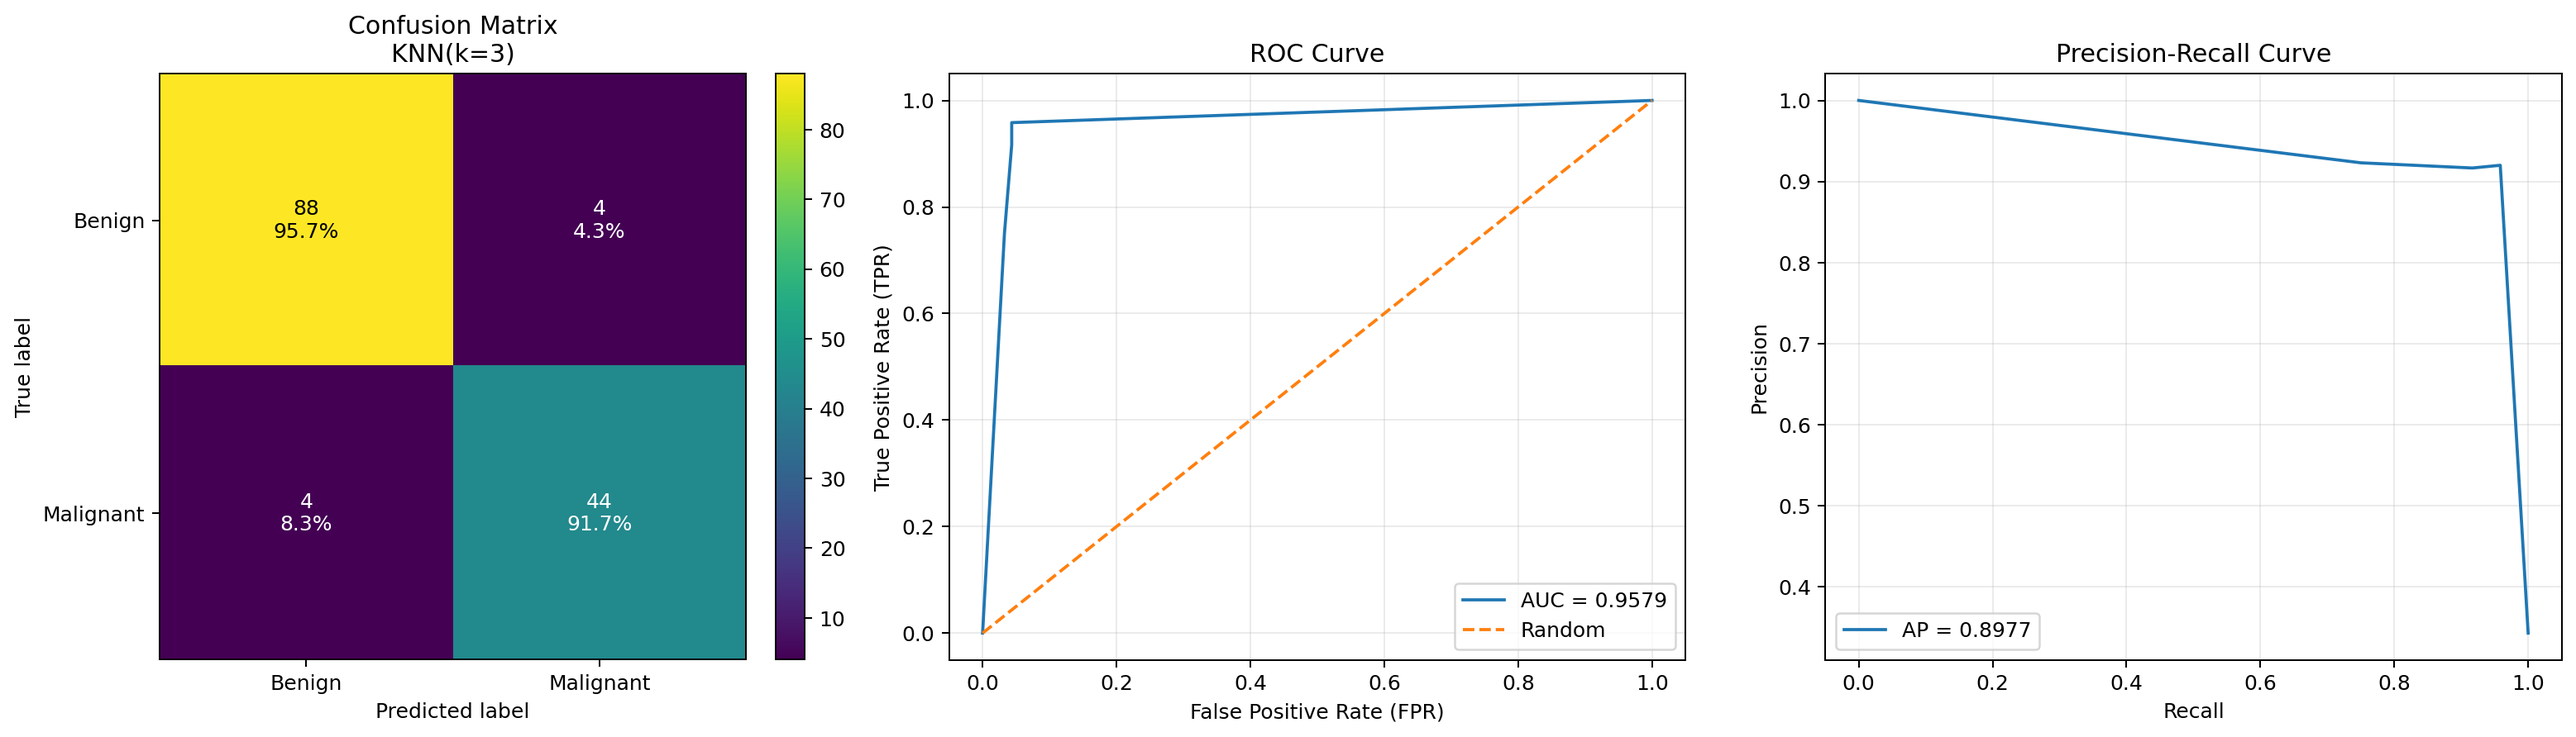
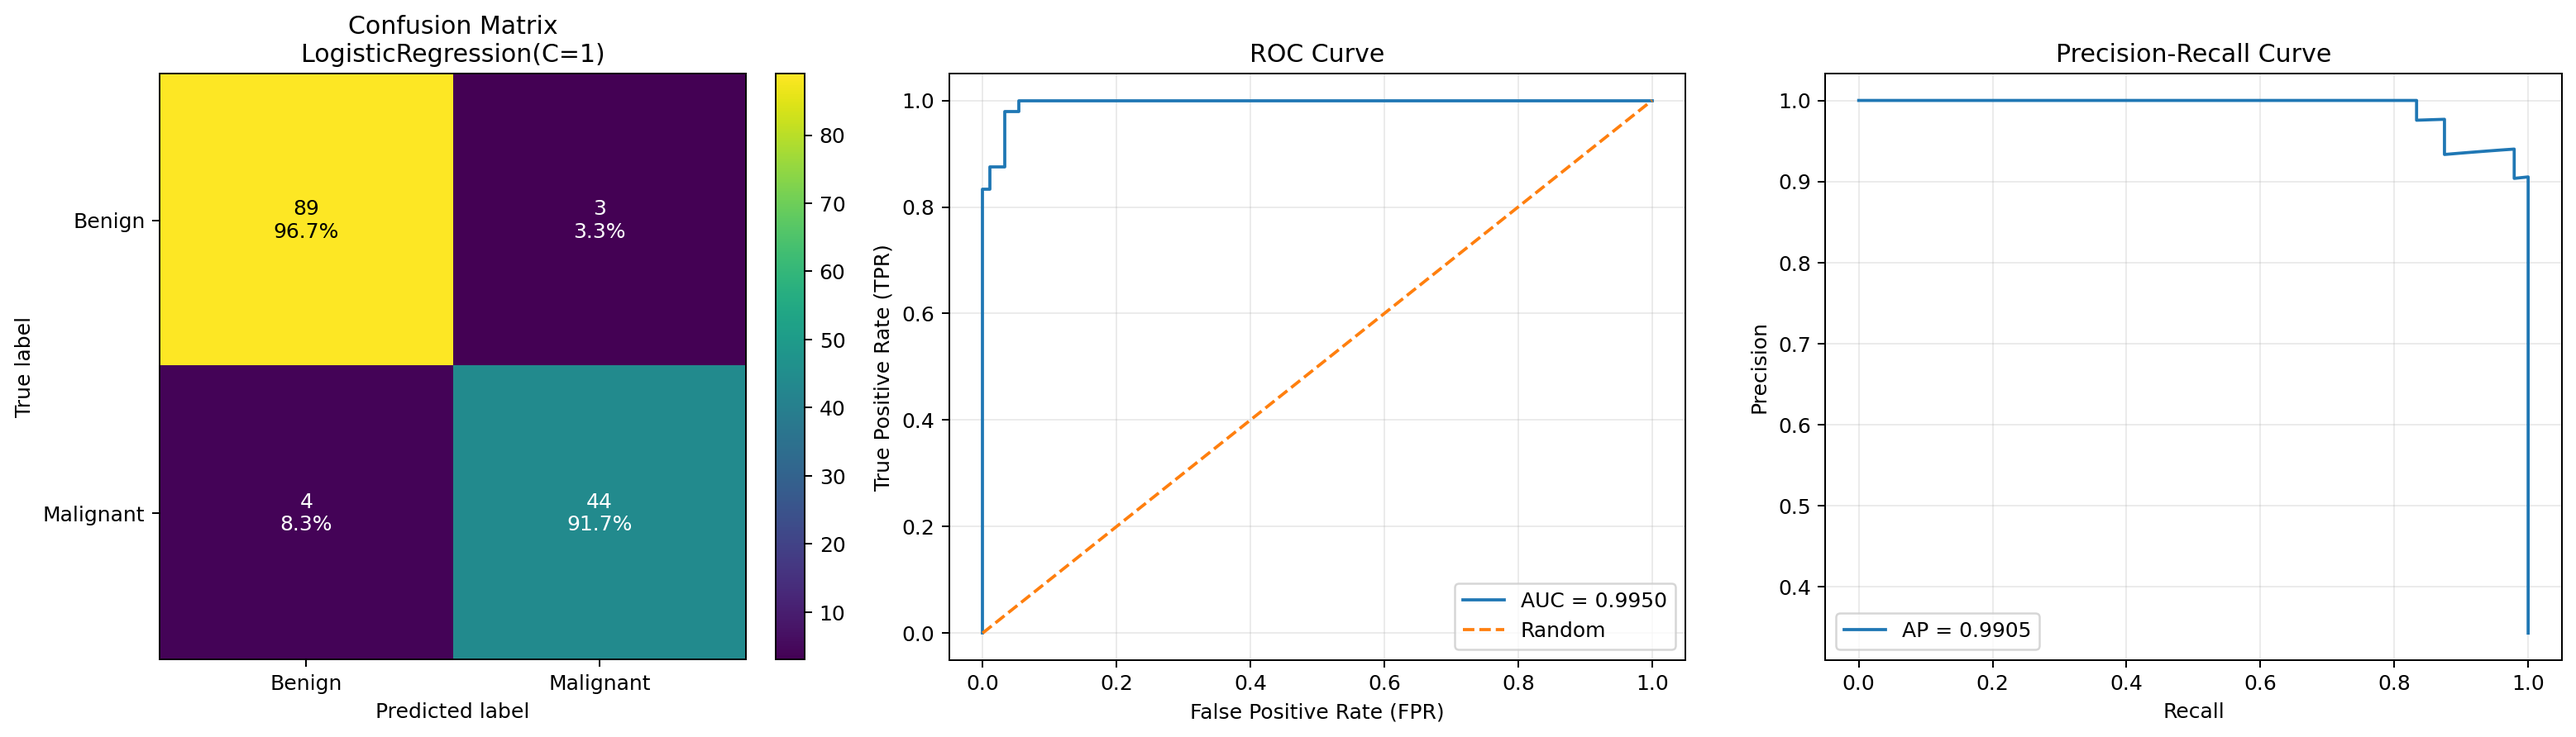
Week 2: 诊断图固定展示最优逻辑回归模型结果

diff --git a/week2/experiment2.py b/week2/experiment2.py
@@ -189,7 +189,9 @@ print("\n" + "=" * 70)
 print("7. 最优模型测试集评估（按 CV F1 选出，仅此一次）")
 print("=" * 70)
 
-best_name = cv_df.iloc[0]["模型"]
+# 诊断图固定展示最优逻辑回归模型（报告模板主题为逻辑回归）
+lr_df = cv_df[cv_df["模型"].str.startswith("LogisticRegression")]
+best_name = lr_df.iloc[0]["模型"]
 best_model = models[best_name]
 best_model.fit(X_train_s, y_train)
 
